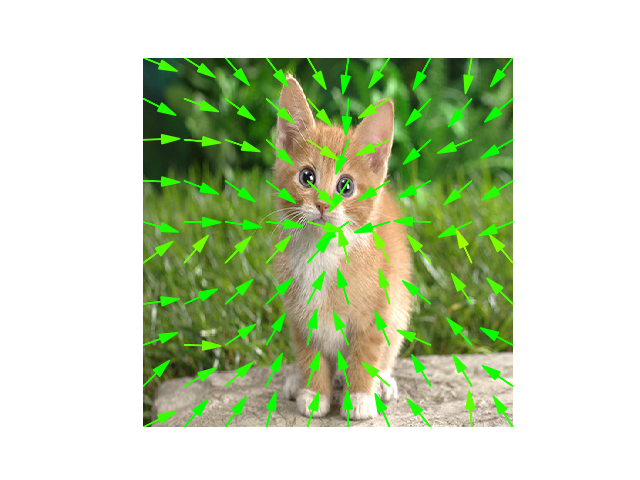
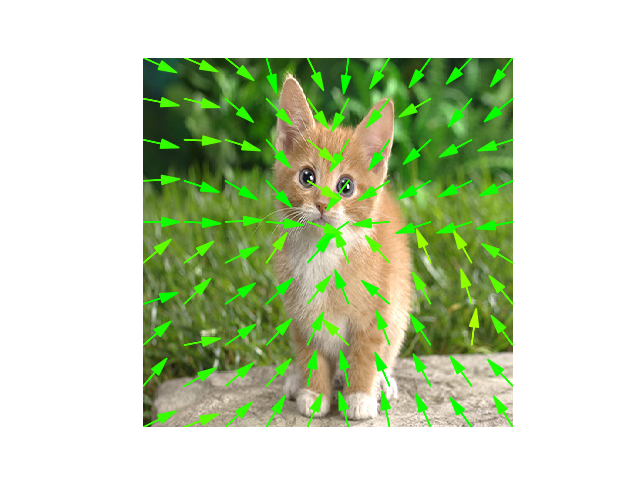
update code

diff --git a/sampler.py b/sampler.py
@@ -2,6 +2,11 @@ import torch
 import torch.nn.functional as F
 
 
+def cat_grid_z(grid, fill_value: int = 1):
+    """concat z axis of grid at last dim , return shape (B, H, W, 3)"""
+    return torch.cat([grid, torch.full_like(grid[..., 0:1], fill_value)], dim=-1)
+
+
 def linearized_grid_sample(input, grid, num_grid=8, noise_strength=0.5, need_push_away=True, fixed_bias=False, **kwargs):
     """Linearized multi-sampling
 
@@ -21,44 +26,42 @@ def linearized_grid_sample(input, grid, num_grid=8, noise_strength=0.5, need_pus
         paper: https://arxiv.org/abs/1901.07124
         github: https://github.com/vcg-uvic/linearized_multisampling_release
     """
-    def create_auxiliary_grid(grid, inputWH):
-        grid = grid.unsqueeze(1).repeat(1, num_grid, 1, 1, 1)
+    def create_auxiliary_grid(grid):
+        grid = grid.unsqueeze(1)
+        other_grid = grid.repeat(1, num_grid-1, 1, 1, 1)
 
         WH = grid.new_tensor([grid.size(-2), grid.size(-3)])
-        grid_noise = torch.randn_like(grid[:, 1:]) / (WH * noise_strength)
-        grid[:, 1:] = grid[:, 1:] + grid_noise
+        grid_noise = torch.randn_like(other_grid).div_(WH.mul_(noise_strength))
+
         if need_push_away:
-            least_offset = grid.new_tensor([2.0/inputWH[-1], 2.0/inputWH[-2]])
-            noise = torch.randn_like(grid[:, 1:]) * least_offset
-            grid[:, 1:] = grid[:, 1:] + noise
-        return grid
+            inputH, inputW = input.size()[-2:]
+            least_offset = grid.new_tensor([2.0/inputW, 2.0/inputH])
+            grid_noise += torch.randn_like(other_grid).mul_(least_offset)
 
-    def warp_input(input, grid):
+        grid_noise = grid_noise.clamp_(min=-1, max=1)
+        return torch.cat([grid, other_grid+grid_noise], dim=1)
+
+    def warp_input(input, auxiliary_grid):
         assert input.dim() == 4
-        assert grid.dim() == 5
-        assert input.size(0) == grid.size(0)
+        assert auxiliary_grid.dim() == 5
 
-        B, num_grid, H, W = grid.size()[:4]
-        input = input.repeat_interleave(num_grid, 0)
-        grid = grid.flatten(0, 1).detach()
-        warped_input = F.grid_sample(input, grid, mode='bilinear', **kwargs)
+        B, num_grid, H, W = auxiliary_grid.size()[:4]
+        inputs = input.unsqueeze(1).repeat(1, num_grid, 1, 1, 1).flatten(0, 1)
+        grids = auxiliary_grid.flatten(0, 1).detach()
+        warped_input = F.grid_sample(inputs, grids, mode='bilinear', **kwargs)
         return warped_input.reshape(B, num_grid, -1, H, W)
 
-    def cat_grid_z(grid, fill_value: int = 1):
-        """concat z axis of grid at last dim , return shape (B, H, W, 3)"""
-        return torch.cat([grid, torch.full_like(grid[..., 0:1], fill_value)], dim=-1)
+    def linearized_fitting(warped_input, auxiliary_grid):
+        assert auxiliary_grid.size(
+            1) > 1, 'num of grid should be larger than 1'
+        assert warped_input.dim() == 5, 'shape should be: B x Grid x C x H x W'
+        assert auxiliary_grid.dim() == 5, 'shape should be: B x Grid x H x W x XY'
+        assert warped_input.size(1) == auxiliary_grid.size(1)
 
-    def linearized_fitting(input, grid):
-        assert input.dim() == 5, 'shape should be: B x Grid x C x H x W'
-        assert grid.dim() == 5, 'shape should be: B x Grid x H x W x XY'
-        assert input.size(0) == grid.size(0)
-        assert input.size(1) == grid.size(1)
-        assert grid.size(1) > 1, 'num of grid should be larger than 1'
-
-        center_image = input[:, 0]
-        other_image = input[:, 1:]
-        center_grid = grid[:, 0]
-        other_grid = grid[:, 1:]
+        center_image = warped_input[:, 0]
+        other_image = warped_input[:, 1:]
+        center_grid = auxiliary_grid[:, 0]
+        other_grid = auxiliary_grid[:, 1:]
 
         delta_intensity = other_image - center_image.unsqueeze(1)
         delta_grid = other_grid - center_grid.unsqueeze(1)
@@ -66,14 +69,14 @@ def linearized_grid_sample(input, grid, num_grid=8, noise_strength=0.5, need_pus
         # concat z and reshape to [B, H, W, XY1, Grid-1]
         x = cat_grid_z(delta_grid).permute(0, 2, 3, 4, 1)
         # calculate dI/dX, euqation(7) in paper
-        xTx = x.matmul(x.transpose(3, 4))
+        xTx = x.matmul(x.transpose(3, 4))  # [B, H, W, XY1, XY1]
         xTx_inv = xTx.view(-1, 3, 3).inverse().view_as(xTx)
         xTx_inv_xT = xTx_inv.matmul(x)  # [B, H, W, XY1, Grid-1]
 
-        # prevent manifestation from out-of-bound samples metion in section 6.1 in paper
-        dW, dH = delta_grid.abs().chunk(2, dim=-1)
-        delta_mask = ((dW <= 1.0) * (dH <= 1.0)).permute(0, 2, 3, 4, 1).float()
-        xTx_inv_xT = xTx_inv_xT * delta_mask
+        # # prevent manifestation from out-of-bound samples metion in section 6.1 in paper
+        # dW, dH = delta_grid.abs().chunk(2, dim=-1)
+        # delta_mask = ((dW <= 1.0) * (dH <= 1.0)).permute(0, 2, 3, 4, 1).float()
+        # xTx_inv_xT = xTx_inv_xT * delta_mask
 
         # [B, Grid-1, C, H, W] reshape to [B, H, W, Grid-1, C]
         delta_intensity = delta_intensity.permute(0, 3, 4, 1, 2)
@@ -90,22 +93,24 @@ def linearized_grid_sample(input, grid, num_grid=8, noise_strength=0.5, need_pus
         # map to linearized, equation(2) in paper
         return center_image + gradient_intensity.mul(gradient_grid.unsqueeze(1)).sum(-1)
 
-    auxiliary_grid = create_auxiliary_grid(grid, input.size()[-2:])
+    assert input.size(0) == grid.size(0)
+    auxiliary_grid = create_auxiliary_grid(grid)
     warped_input = warp_input(input, auxiliary_grid)
     linearized_input = linearized_fitting(warped_input, auxiliary_grid)
     return linearized_input
 
 
 def grid_sample(input, grid, mode='bilinear', padding_mode='zeros', align_corners=True):
-    '''
+    """
     original function prototype:
-    torch.nn.functional.grid_sample(input, grid, mode='bilinear', padding_mode='zeros')
+    torch.nn.functional.grid_sample(
+        input, grid, mode='bilinear', padding_mode='zeros', align_corners=True)
     copy from pytorch 1.3.0 source code
     add linearized_grid_sample
-    '''
+    """
     if mode == 'linearized':
         warped_img = linearized_grid_sample(
-            input, grid, padding_mode=padding_mode, align_corners=True)
+            input, grid, padding_mode=padding_mode, align_corners=align_corners)
     else:
         warped_img = F.grid_sample(
             input, grid, mode, padding_mode=padding_mode, align_corners=align_corners)

diff --git a/gradient_visualizer.py b/gradient_visualizer.py
@@ -1,99 +1,91 @@
 import matplotlib.pyplot as plt
 import numpy as np
 import torch
+import torch.nn.functional as F
 
 import perturbation_helper
-import sampler
 import utils
 
 
 class GradientVisualizer(object):
-    def __init__(self, opt):
-        self.opt = opt
-        self.warper = sampler.DifferentiableImageSampler(
-            'bilinear', 'zeros')
+    """GradientVisualizer"""
 
-    def build_criterion(self):
-        if self.opt.optim_criterion == 'l1loss':
-            criterion = torch.nn.L1Loss()
-        elif self.opt.optim_criterion == 'mse':
-            criterion = torch.nn.MSELoss()
-        else:
-            raise ValueError('unknown optimization criterion: {0}'.format(
-                self.opt.optim_criterion))
-        return criterion
-
-    def build_gd_optimizer(self, params):
-        optim_list = [{"params": params, "lr": self.opt.optim_lr}]
-        optimizer = torch.optim.SGD(optim_list)
-        return optimizer
+    def __init__(self, grid_size=10, criterion='mse', lr=1e-2, out_shape=[16, 16]):
+        self.grid_size = grid_size
+        self.criterion = criterion
+        self.lr = lr
+        self.out_shape = out_shape
 
     def create_translation_grid(self, resolution=None):
         if resolution is None:
-            resolution = self.opt.grid_size
-        results = []
-        x_steps = torch.linspace(-1, 1, steps=resolution)
-        y_steps = torch.linspace(-1, 1, steps=resolution)
-        for x in x_steps:
-            for y in y_steps:
-                translation_vec = torch.stack([x, y], dim=0)[None]
-                results.append(translation_vec)
-        return results
+            resolution = self.grid_size
+        y_steps, x_steps = torch.meshgrid(torch.linspace(-1, 1, steps=resolution),
+                                          torch.linspace(-1, 1, steps=resolution))
+        return torch.stack([x_steps, y_steps], dim=-1).view(-1, 1, 2)
 
-    def get_next_translation_vec(self, data_pack, image_warper):
-        translation_vec = data_pack['translation_vec'].clone(
-        ).detach().requires_grad_(True)
+    def build_criterion(self):
+        if self.criterion == 'l1loss':
+            criterion = torch.nn.L1Loss()
+        elif self.criterion == 'mse':
+            criterion = torch.nn.MSELoss()
+        else:
+            raise ValueError('unknown optimization criterion: {0}'.format(
+                self.criterion))
+        return criterion
+
+    def build_gd_optimizer(self, params):
+        return torch.optim.SGD([params], lr=self.lr)
+
+    def get_next_translation_vec(self, ori_image, translation_vec, image_warper):
+        translation_vec = translation_vec.clone().detach().requires_grad_(True)
         translation_mat = perturbation_helper.vec2mat_for_translation(
             translation_vec)
-        orig_image = data_pack['original_image']
         criterion = self.build_criterion()
         optimizer = self.build_gd_optimizer(params=translation_vec)
-        ident_mat = torch.eye(2, 3).unsqueeze(0)
-        down_sampled_orig_image = self.warper.warp_image(
-            orig_image, ident_mat, self.opt.out_shape).detach()
+
+        target = F.interpolate(
+            ori_image, size=self.out_shape, mode='bilinear', align_corners=True).detach()
         warped_image = image_warper.warp_image(
-            orig_image, translation_mat, self.opt.out_shape)
-        loss = criterion(warped_image, down_sampled_orig_image)
+            ori_image, translation_mat, self.out_shape)
+
+        loss = criterion(warped_image, target)
         optimizer.zero_grad()
         loss.backward()
         optimizer.step()
         return translation_vec
 
-    def get_gradient_over_translation_vec(self, data_pack, image_warper):
-        translation_vec = data_pack['translation_vec']
+    def get_gradient_over_translation_vec(self, ori_image, translation_vec, image_warper):
         next_translation_vec = self.get_next_translation_vec(
-            data_pack, image_warper)
+            ori_image, translation_vec, image_warper)
         moving_dir = next_translation_vec - translation_vec
         return moving_dir
 
-    def get_gradient_grid(self, orig_image, image_warper):
+    def get_gradient_grid(self, ori_image, image_warper):
         gradient_grid = []
         translation_grid = self.create_translation_grid()
         for translation_vec in translation_grid:
-            data_pack = {}
-            data_pack['translation_vec'] = translation_vec
-            data_pack['original_image'] = orig_image
             cur_gradient = self.get_gradient_over_translation_vec(
-                data_pack, image_warper)
+                ori_image, translation_vec, image_warper)
             gradient_pack = {
                 'translation_vec': translation_vec, 'gradient': cur_gradient}
             gradient_grid.append(gradient_pack)
         return gradient_grid
 
-    def draw_gradient_grid(self, orig_image, image_warper):
-        gradient_grid = self.get_gradient_grid(orig_image, image_warper)
+    def draw_gradient_grid(self, ori_image, image_warper):
+        gradient_grid = self.get_gradient_grid(
+            ori_image.unsqueeze(0), image_warper)
 
         fig, ax = plt.subplots()
         ax.axis('off')
-        orig_image_show = utils.torch_img_to_np_img(orig_image)[0]
-        ax.imshow(orig_image_show, extent=[-1, 1, -1, 1])
+        ori_image_show = utils.torch_img_to_np_img(ori_image)
+        ax.imshow(ori_image_show, extent=[-1, 1, -1, 1])
 
         for gradient in gradient_grid:
-            orig_point = np.zeros([2], dtype=np.float32)
+            ori_point = np.zeros([2], dtype=np.float32)
             base_loc = 0 - (gradient['translation_vec'])[0].data.cpu().numpy()
             gradient_dir = (gradient['gradient'])[0].data.cpu().numpy()
             gradient_dir = 0 - utils.unit_vector(gradient_dir)
-            gt_dir = orig_point - base_loc
+            gt_dir = ori_point - base_loc
             gt_dir = utils.unit_vector(gt_dir)
 
             angle = utils.angle_between(gradient_dir, gt_dir)

diff --git a/main.py b/main.py
@@ -2,7 +2,7 @@ import imageio
 import matplotlib.pyplot as plt
 import torch
 
-import gradient_visualizer
+from gradient_visualizer import GradientVisualizer
 import sampler
 import sampler_o
 import utils
@@ -48,19 +48,6 @@ print(linearized_transformed_image.shape)
 # plt.show()
 
 
-class FakeOptions():
-    pass
-
-
-opt = FakeOptions()
-opt.padding_mode = 'zeros'
-opt.grid_size = 10
-opt.optim_criterion = 'mse'
-opt.optim_lr = 1e-2
-opt.out_shape = [16, 16]
-
-gradient_visualizer_instance = gradient_visualizer.GradientVisualizer(opt)
-gradient_visualizer_instance.draw_gradient_grid(
-    cute_cat[None], bilinear_sampler)
-gradient_visualizer_instance.draw_gradient_grid(
-    cute_cat[None], linearized_sampler)
+gradient_visualizer = GradientVisualizer()
+gradient_visualizer.draw_gradient_grid(cute_cat, bilinear_sampler)
+gradient_visualizer.draw_gradient_grid(cute_cat, linearized_sampler)
